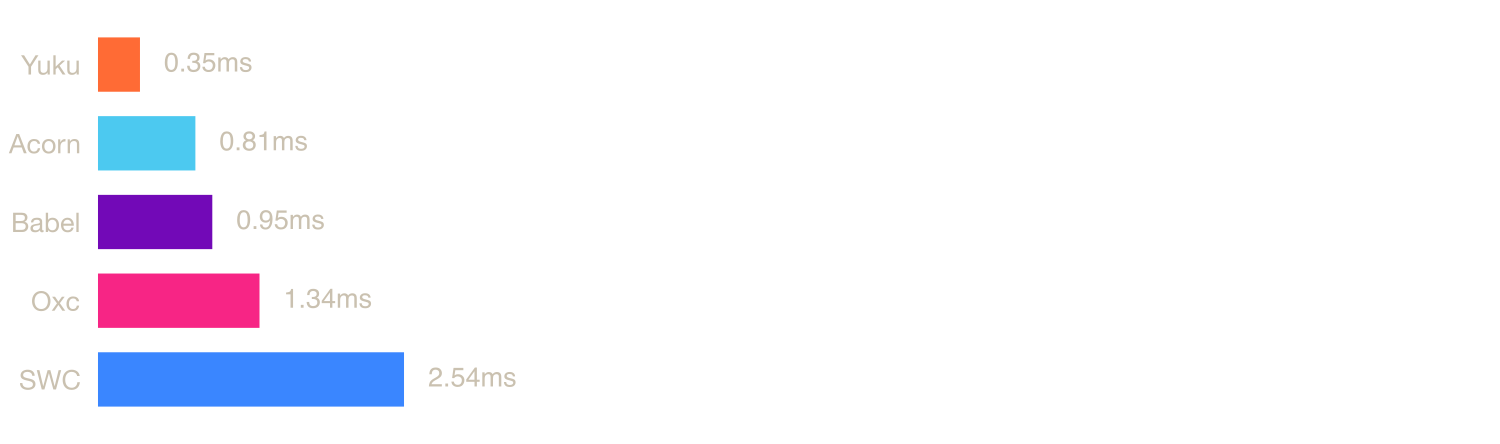
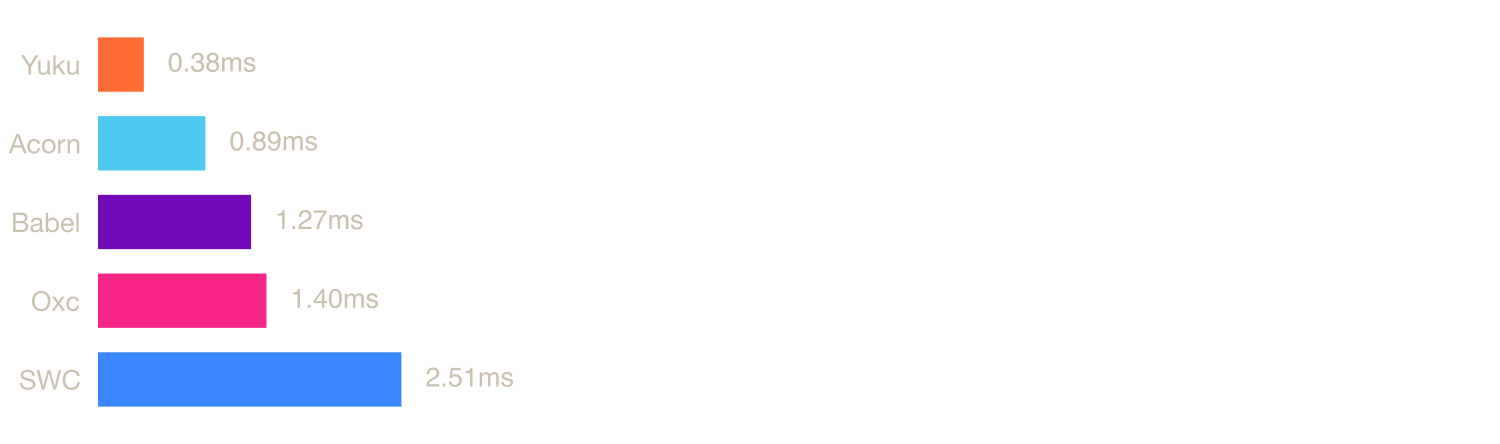
chore: update daily benchmark results

diff --git a/README.md b/README.md
@@ -7,9 +7,9 @@ Benchmarks for ECMAScript parsers available as npm packages, including pure Java
 | Property | Value |
 |----------|-------|
 | OS | macOS 24.6.0 (arm64) |
-| CPU | Apple M3 |
-| Cores | 8 |
-| Memory | 16 GB |
+| CPU | Apple M4 Pro (Virtual) |
+| Cores | 6 |
+| Memory | 14 GB |
 
 ## Parsers
 
@@ -43,11 +43,11 @@ A high-performance & spec-compliant JavaScript/TypeScript compiler written in Zi
 
 | Parser | Mean | Min | Max |
 |--------|------|-----|-----|
-| Yuku | 48.74 ms | 46.72 ms | 57.37 ms |
-| Acorn | 115.62 ms | 103.66 ms | 145.07 ms |
-| Babel | 156.36 ms | 127.92 ms | 198.87 ms |
-| Oxc | 242.98 ms | 226.74 ms | 279.49 ms |
-| SWC | 410.32 ms | 393.61 ms | 478.46 ms |
+| Yuku | 54.33 ms | 48.18 ms | 60.40 ms |
+| Acorn | 126.43 ms | 116.55 ms | 135.60 ms |
+| Babel | 181.66 ms | 152.60 ms | 230.76 ms |
+| Oxc | 230.52 ms | 223.13 ms | 248.74 ms |
+| SWC | 419.01 ms | 395.78 ms | 477.50 ms |
 
 ### [three.js](https://raw.githubusercontent.com/yuku-toolchain/parser-benchmark-files/refs/heads/main/three.js)
 
@@ -57,11 +57,11 @@ A high-performance & spec-compliant JavaScript/TypeScript compiler written in Zi
 
 | Parser | Mean | Min | Max |
 |--------|------|-----|-----|
-| Yuku | 14.61 ms | 13.82 ms | 23.12 ms |
-| Acorn | 25.53 ms | 23.99 ms | 30.27 ms |
-| Babel | 32.60 ms | 25.55 ms | 57.18 ms |
-| Oxc | 43.68 ms | 42.47 ms | 48.60 ms |
-| SWC | 75.41 ms | 74.08 ms | 79.53 ms |
+| Yuku | 16.15 ms | 13.82 ms | 20.26 ms |
+| Acorn | 28.56 ms | 25.04 ms | 34.07 ms |
+| Babel | 39.40 ms | 33.64 ms | 46.17 ms |
+| Oxc | 45.04 ms | 42.57 ms | 47.29 ms |
+| SWC | 80.46 ms | 75.21 ms | 85.33 ms |
 
 ### [react.js](https://raw.githubusercontent.com/yuku-toolchain/parser-benchmark-files/refs/heads/main/react.js)
 
@@ -71,11 +71,11 @@ A high-performance & spec-compliant JavaScript/TypeScript compiler written in Zi
 
 | Parser | Mean | Min | Max |
 |--------|------|-----|-----|
-| Yuku | 0.35 ms | 0.33 ms | 4.91 ms |
-| Acorn | 0.81 ms | 0.76 ms | 2.05 ms |
-| Babel | 0.95 ms | 0.82 ms | 3.80 ms |
-| Oxc | 1.34 ms | 1.29 ms | 2.38 ms |
-| SWC | 2.54 ms | 2.44 ms | 3.96 ms |
+| Yuku | 0.38 ms | 0.32 ms | 4.08 ms |
+| Acorn | 0.89 ms | 0.77 ms | 4.31 ms |
+| Babel | 1.27 ms | 0.81 ms | 5.11 ms |
+| Oxc | 1.40 ms | 1.30 ms | 4.99 ms |
+| SWC | 2.51 ms | 2.38 ms | 6.07 ms |
 
 ## Run Benchmarks
 
